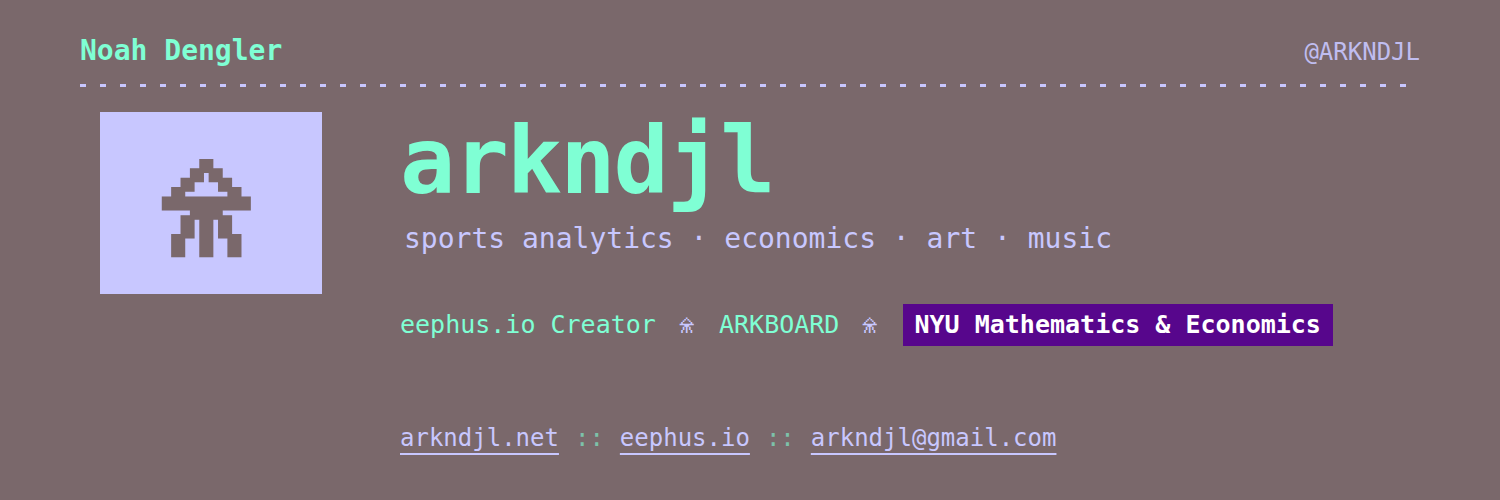
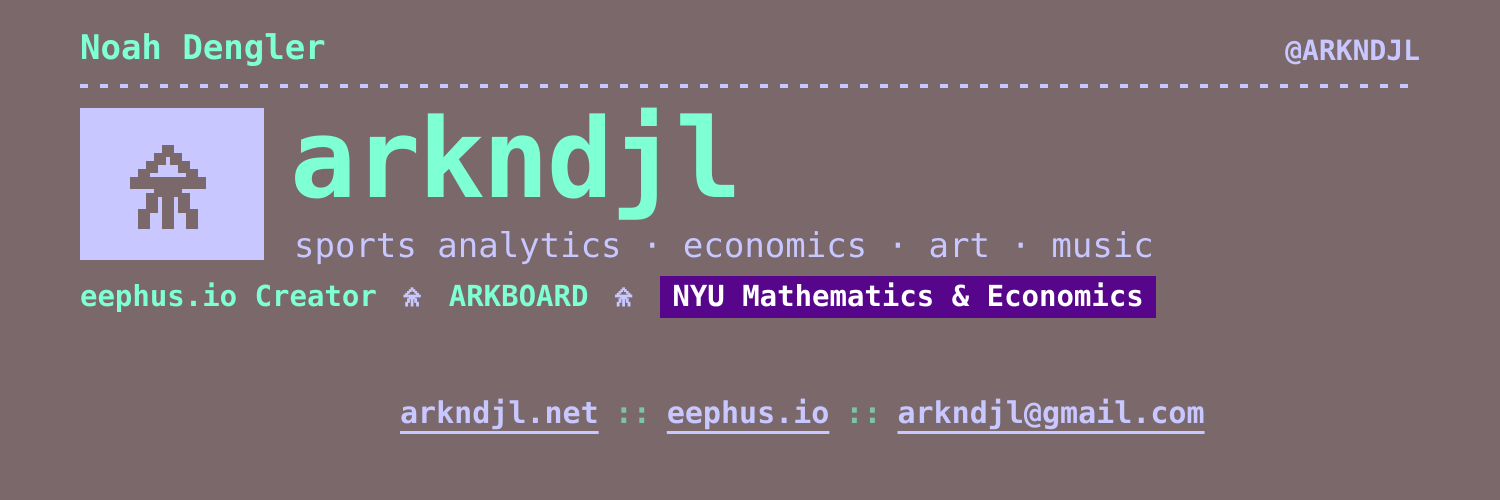
Brand images: sharper renders, X profile picture
- Render large images at 2x device pixels and box-downscale to size, so
  type is cleanly anti-aliased and the pixel glyph keeps hard edges
- Larger, bolder type and a thicker rule on the share card and banners,
  sized for how X and YouTube actually display them
- X header keeps the profile-picture corner clear; YouTube content stays
  inside the 1546x423 safe area
- New brand/avatar.html: X profile picture (1000x1000) in two variants

Claude-Session: https://claude.ai/code/session_01ASh4AMHHUQkRV9emJ7oDVJ

diff --git a/brand/render.js b/brand/render.js
@@ -1,45 +1,75 @@
 // Renders the share image and favicons into ../static, and the X/Twitter and
-// YouTube banners into ./exports, from the HTML templates in this folder. Needs Node + Playwright (npm i -D playwright && npx playwright
-// install chromium) and, for favicon.ico, ImageMagick's `convert`.
+// YouTube banners plus the X profile picture into ./exports, from the HTML
+// templates in this folder. Needs Node + Playwright (npm i -D playwright &&
+// npx playwright install chromium) and ImageMagick's `convert` (used for the
+// 2x -> 1x downscale and favicon.ico).
 //
 //   node brand/render.js
+const fs = require('fs');
 const path = require('path');
 const { execFileSync } = require('child_process');
 const { chromium } = require('playwright');
 
 const here = __dirname;
 const out = path.join(here, '..', 'static');
+const exportsDir = path.join(here, 'exports');
+fs.mkdirSync(exportsDir, { recursive: true });
+
+let hasConvert = true;
+try { execFileSync('convert', ['-version'], { stdio: 'ignore' }); } catch { hasConvert = false; }
 
 (async () => {
   const browser = await chromium.launch();
-  const render = async (file, target, w, h) => {
-    const page = await browser.newPage({ viewport: { width: w, height: h }, deviceScaleFactor: 1 });
+
+  // Large images: render at 2x device pixels, then downscale 50% with a box
+  // filter. Text and the badge get clean anti-aliasing and the pixel glyph
+  // keeps hard edges. Falls back to a 1x render without ImageMagick.
+  const renderSharp = async (file, target, w, h) => {
+    const scale = hasConvert ? 2 : 1;
+    const page = await browser.newPage({ viewport: { width: w, height: h }, deviceScaleFactor: scale });
     await page.goto('file://' + path.join(here, file), { waitUntil: 'networkidle' });
     await page.waitForTimeout(200);
-    await page.screenshot({ path: target });
+    if (scale === 2) {
+      const tmp = target + '.2x.png';
+      await page.screenshot({ path: tmp });
+      execFileSync('convert', [tmp, '-filter', 'Box', '-resize', '50%', '-strip', 'PNG24:' + target]);
+      fs.unlinkSync(tmp);
+    } else {
+      await page.screenshot({ path: target });
+    }
     await page.close();
     console.log('wrote', path.relative(process.cwd(), target), `${w}x${h}`);
   };
-  await render('og-image.html', path.join(out, 'og-image.png'), 1200, 627);
-  // Social banners are not site assets; they land in brand/exports/.
-  const exports = path.join(here, 'exports');
-  require('fs').mkdirSync(exports, { recursive: true });
-  await render('twitter-banner.html', path.join(exports, 'twitter-banner.png'), 1500, 500);
-  await render('youtube-banner.html', path.join(exports, 'youtube-banner.png'), 2560, 1440);
-  await render('icon.html', path.join(out, 'apple-touch-icon.png'), 180, 180);
-  await render('icon.html', path.join(out, 'favicon.png'), 32, 32);
+  // Small icons: render at 1x so the glyph stays on the pixel grid.
+  const renderIcon = async (file, target, size) => {
+    const page = await browser.newPage({ viewport: { width: size, height: size }, deviceScaleFactor: 1 });
+    await page.goto('file://' + path.join(here, file), { waitUntil: 'networkidle' });
+    await page.waitForTimeout(100);
+    await page.screenshot({ path: target });
+    await page.close();
+    console.log('wrote', path.relative(process.cwd(), target), `${size}x${size}`);
+  };
+
+  await renderSharp('og-image.html', path.join(out, 'og-image.png'), 1200, 627);
+  await renderSharp('twitter-banner.html', path.join(exportsDir, 'twitter-banner.png'), 1500, 500);
+  await renderSharp('youtube-banner.html', path.join(exportsDir, 'youtube-banner.png'), 2560, 1440);
+  await renderSharp('avatar.html', path.join(exportsDir, 'twitter-avatar.png'), 1000, 1000);
+  await renderSharp('avatar.html#inverse', path.join(exportsDir, 'twitter-avatar-inverse.png'), 1000, 1000);
+
+  await renderIcon('icon.html', path.join(out, 'apple-touch-icon.png'), 180);
+  await renderIcon('icon.html', path.join(out, 'favicon.png'), 32);
   const icoParts = [];
   for (const s of [16, 32, 48]) {
     const p = path.join(here, `.icon-${s}.png`);
-    await render('icon.html', p, s, s);
+    await renderIcon('icon.html', p, s);
     icoParts.push(p);
   }
   await browser.close();
-  try {
+  if (hasConvert) {
     execFileSync('convert', [...icoParts, path.join(out, 'favicon.ico')]);
     console.log('wrote static/favicon.ico');
-  } catch (e) {
+  } else {
     console.warn('favicon.ico not written (ImageMagick `convert` not available)');
   }
-  for (const p of icoParts) require('fs').unlinkSync(p);
+  for (const p of icoParts) fs.unlinkSync(p);
 })().catch(e => { console.error(e); process.exit(1); });

diff --git a/brand/youtube-banner.html b/brand/youtube-banner.html
@@ -1,27 +1,27 @@
 <!doctype html><html><head><meta charset="utf-8">
-<!-- YouTube channel banner: 2560 x 1440. Everything that matters sits inside
-     YouTube's 1546 x 423 safe area (x 507-2053, y 508-931), which is all that
-     phones show; desktop shows the full-width 423px strip; TVs show it all. -->
+<!-- YouTube channel banner: 2560 x 1440 (rendered at 2x and downscaled). Everything that
+     matters sits inside YouTube's 1546 x 423 safe area (x 507-2053, y 508-931), which is
+     all that phones show; desktop shows the full-width 423px strip; TVs show it all. -->
 <style>
 @font-face { font-family: "Fira Code"; src: url("../static/fonts/FiraCode-Latin.woff2") format("woff2"); font-weight: 300 700; }
-html,body { margin:0; width:2560px; height:1440px; background:#7a686b; color:#7fffd4; font-family:"Fira Code", monospace; overflow:hidden; }
+html,body { margin:0; width:2560px; height:1440px; background:#7a686b; color:#7fffd4; font-family:"Fira Code", monospace; overflow:hidden; -webkit-font-smoothing:antialiased; }
 .wrap { position:relative; width:2560px; height:1440px; }
 .safe { position:absolute; left:507px; top:508px; width:1546px; height:423px; }
-.name { position:absolute; left:40px; top:30px; font-size:30px; font-weight:700; }
-.handle { position:absolute; right:40px; top:34px; font-size:26px; color:#c8c7ff; opacity:.9; }
-.rule { position:absolute; left:0; right:0; top:588px; height:3px; background:repeating-linear-gradient(90deg,#c8c7ff,#c8c7ff 6px,transparent 0,transparent 20px); }
-.logo { position:absolute; left:40px; top:108px; background:#c8c7ff; color:#7a686b; font-size:150px; line-height:1; padding:16px 36px; font-weight:700; }
-.title { position:absolute; left:320px; top:104px; font-size:96px; font-weight:700; letter-spacing:-2px; line-height:1; }
-.sub { position:absolute; left:324px; top:214px; font-size:30px; color:#c8c7ff; }
-.bio { position:absolute; left:320px; top:288px; font-size:27px; line-height:1.5; white-space:nowrap; }
-.nyu { display:inline-block; background:#57068c; color:#fff; font-weight:700; padding:2px 12px; }
-.foot { position:absolute; left:320px; top:348px; display:flex; align-items:center; gap:16px; font-size:26px; color:#c8c7ff; }
-.foot .sep { opacity:.6; color:#7fffd4; }
-.foot a { color:#c8c7ff; text-decoration:underline; text-decoration-thickness:2px; text-underline-offset:7px; }
+.name { position:absolute; left:40px; top:18px; font-size:34px; font-weight:700; }
+.handle { position:absolute; right:40px; top:24px; font-size:28px; font-weight:600; color:#c8c7ff; }
+.rule { position:absolute; left:0; right:0; top:574px; height:4px; background:repeating-linear-gradient(90deg,#c8c7ff,#c8c7ff 8px,transparent 0,transparent 20px); }
+.logo { position:absolute; left:40px; top:90px; background:#c8c7ff; color:#7a686b; font-size:128px; line-height:1; padding:12px 28px; font-weight:700; }
+.title { position:absolute; left:250px; top:86px; font-size:110px; font-weight:700; letter-spacing:-2px; line-height:1; }
+.sub { position:absolute; left:254px; top:208px; font-size:34px; font-weight:500; color:#c8c7ff; }
+.bio { position:absolute; left:40px; top:276px; font-size:30px; font-weight:600; line-height:1.4; white-space:nowrap; }
 .glyph { color:#c8c7ff; margin:0 4px; }
+.nyu { display:inline-block; background:#57068c; color:#fff; font-weight:700; padding:2px 12px; }
+.foot { position:absolute; left:40px; top:342px; display:flex; align-items:center; gap:16px; font-size:30px; font-weight:600; color:#c8c7ff; }
+.foot .sep { opacity:.6; color:#7fffd4; }
+.foot a { color:#c8c7ff; text-decoration:underline; text-decoration-thickness:3px; text-underline-offset:8px; }
 /* decoration outside the safe area (TV / wide desktop only) */
-.mark { position:absolute; font-size:420px; line-height:1; color:#c8c7ff; opacity:.14; font-weight:700; }
-.mark.l { left:60px; top:470px; } .mark.r { right:60px; top:470px; }
+.mark { position:absolute; font-size:400px; line-height:1; color:#c8c7ff; opacity:.14; font-weight:700; }
+.mark.l { left:60px; top:480px; } .mark.r { right:60px; top:480px; }
 </style></head><body><div class="wrap">
 <div class="rule"></div>
 <div class="mark l">🜎</div><div class="mark r">🜎</div>

diff --git a/brand/twitter-banner.html b/brand/twitter-banner.html
@@ -1,22 +1,23 @@
 <!doctype html><html><head><meta charset="utf-8">
-<!-- X / Twitter profile header: 1500 x 500. The profile picture overlaps the
-     bottom-left (~x < 380, y > 325), so nothing important goes there. -->
+<!-- X / Twitter profile header: 1500 x 500 (rendered at 2x and downscaled). X shows it
+     about 600px wide on desktop and re-encodes it as JPEG, so type is large and bold.
+     The profile picture overlaps the bottom-left (~x < 380, y > 325): kept clear. -->
 <style>
 @font-face { font-family: "Fira Code"; src: url("../static/fonts/FiraCode-Latin.woff2") format("woff2"); font-weight: 300 700; }
-html,body { margin:0; width:1500px; height:500px; background:#7a686b; color:#7fffd4; font-family:"Fira Code", monospace; overflow:hidden; }
+html,body { margin:0; width:1500px; height:500px; background:#7a686b; color:#7fffd4; font-family:"Fira Code", monospace; overflow:hidden; -webkit-font-smoothing:antialiased; }
 .wrap { position:relative; width:1500px; height:500px; }
-.name { position:absolute; left:80px; top:34px; font-size:28px; font-weight:700; }
-.handle { position:absolute; right:80px; top:38px; font-size:24px; color:#c8c7ff; opacity:.9; }
-.rule { position:absolute; left:80px; right:80px; top:84px; height:3px; background:repeating-linear-gradient(90deg,#c8c7ff,#c8c7ff 6px,transparent 0,transparent 20px); }
-.logo { position:absolute; left:100px; top:112px; background:#c8c7ff; color:#7a686b; font-size:150px; line-height:1; padding:16px 36px; font-weight:700; }
-.title { position:absolute; left:400px; top:116px; font-size:92px; font-weight:700; letter-spacing:-2px; line-height:1; }
-.sub { position:absolute; left:404px; top:222px; font-size:28px; color:#c8c7ff; }
-.bio { position:absolute; left:400px; top:304px; font-size:25px; line-height:1.5; white-space:nowrap; }
-.nyu { display:inline-block; background:#57068c; color:#fff; font-weight:700; padding:2px 12px; }
-.foot { position:absolute; left:400px; bottom:48px; display:flex; align-items:center; gap:16px; font-size:24px; color:#c8c7ff; }
-.foot .sep { opacity:.6; color:#7fffd4; }
-.foot a { color:#c8c7ff; text-decoration:underline; text-decoration-thickness:2px; text-underline-offset:7px; }
+.name { position:absolute; left:80px; top:28px; font-size:34px; font-weight:700; }
+.handle { position:absolute; right:80px; top:34px; font-size:28px; font-weight:600; color:#c8c7ff; }
+.rule { position:absolute; left:80px; right:80px; top:84px; height:4px; background:repeating-linear-gradient(90deg,#c8c7ff,#c8c7ff 8px,transparent 0,transparent 20px); }
+.logo { position:absolute; left:80px; top:108px; background:#c8c7ff; color:#7a686b; font-size:128px; line-height:1; padding:12px 28px; font-weight:700; }
+.title { position:absolute; left:290px; top:104px; font-size:110px; font-weight:700; letter-spacing:-2px; line-height:1; }
+.sub { position:absolute; left:294px; top:226px; font-size:34px; font-weight:500; color:#c8c7ff; }
+.bio { position:absolute; left:80px; top:276px; font-size:29px; font-weight:600; line-height:1.3; white-space:nowrap; }
 .glyph { color:#c8c7ff; margin:0 4px; }
+.nyu { display:inline-block; background:#57068c; color:#fff; font-weight:700; padding:2px 12px; }
+.foot { position:absolute; left:400px; top:396px; display:flex; align-items:center; gap:16px; font-size:30px; font-weight:600; color:#c8c7ff; }
+.foot .sep { opacity:.6; color:#7fffd4; }
+.foot a { color:#c8c7ff; text-decoration:underline; text-decoration-thickness:3px; text-underline-offset:8px; }
 </style></head><body><div class="wrap">
 <div class="name">Noah Dengler</div>
 <div class="handle">@ARKNDJL</div>

diff --git a/brand/og-image.html b/brand/og-image.html
@@ -1,20 +1,21 @@
 <!doctype html><html><head><meta charset="utf-8">
+<!-- Open Graph / link-preview card: 1200 x 627 (rendered at 2x and downscaled by render.js). -->
 <style>
 @font-face { font-family: "Fira Code"; src: url("../static/fonts/FiraCode-Latin.woff2") format("woff2"); font-weight: 300 700; }
-html,body { margin:0; width:1200px; height:627px; background:#7a686b; color:#7fffd4; font-family:"Fira Code", monospace; overflow:hidden; }
+html,body { margin:0; width:1200px; height:627px; background:#7a686b; color:#7fffd4; font-family:"Fira Code", monospace; overflow:hidden; -webkit-font-smoothing:antialiased; }
 .wrap { position:relative; width:1200px; height:627px; }
-.name { position:absolute; left:80px; top:62px; font-size:32px; font-weight:700; color:#7fffd4; letter-spacing:0.5px; }
-.handle { position:absolute; right:80px; top:66px; font-size:26px; color:#c8c7ff; opacity:.9; }
-.rule { position:absolute; left:80px; right:80px; top:120px; height:3px; background:repeating-linear-gradient(90deg,#c8c7ff,#c8c7ff 6px,transparent 0,transparent 20px); }
-.logo { position:absolute; left:80px; top:170px; background:#c8c7ff; color:#7a686b; font-size:140px; line-height:1; padding:18px 34px; font-weight:700; }
-.title { position:absolute; left:330px; top:178px; font-size:104px; font-weight:700; letter-spacing:-2px; line-height:1; }
-.sub { position:absolute; left:334px; top:300px; font-size:30px; color:#c8c7ff; }
-.bio { position:absolute; left:80px; top:438px; font-size:27px; color:#7fffd4; line-height:1.5; white-space:nowrap; }
-.nyu { display:inline-block; background:#57068c; color:#ffffff; font-weight:700; padding:2px 12px; margin-right:2px; }
-.foot { position:absolute; left:80px; bottom:56px; display:flex; align-items:center; gap:16px; font-size:26px; color:#c8c7ff; }
-.foot .sep { opacity:.6; color:#7fffd4; }
-.foot a { color:#c8c7ff; text-decoration:underline; text-decoration-thickness:2px; text-underline-offset:7px; }
+.name { position:absolute; left:80px; top:58px; font-size:34px; font-weight:700; }
+.handle { position:absolute; right:80px; top:64px; font-size:28px; font-weight:600; color:#c8c7ff; }
+.rule { position:absolute; left:80px; right:80px; top:118px; height:4px; background:repeating-linear-gradient(90deg,#c8c7ff,#c8c7ff 8px,transparent 0,transparent 20px); }
+.logo { position:absolute; left:80px; top:168px; background:#c8c7ff; color:#7a686b; font-size:144px; line-height:1; padding:16px 32px; font-weight:700; }
+.title { position:absolute; left:330px; top:172px; font-size:108px; font-weight:700; letter-spacing:-2px; line-height:1; }
+.sub { position:absolute; left:334px; top:298px; font-size:32px; font-weight:500; color:#c8c7ff; }
+.bio { position:absolute; left:80px; top:430px; font-size:27px; font-weight:600; line-height:1.5; white-space:nowrap; }
 .glyph { color:#c8c7ff; margin:0 4px; }
+.nyu { display:inline-block; background:#57068c; color:#fff; font-weight:700; padding:2px 12px; }
+.foot { position:absolute; left:80px; bottom:52px; display:flex; align-items:center; gap:16px; font-size:28px; font-weight:600; color:#c8c7ff; }
+.foot .sep { opacity:.6; color:#7fffd4; }
+.foot a { color:#c8c7ff; text-decoration:underline; text-decoration-thickness:3px; text-underline-offset:7px; }
 </style></head><body><div class="wrap">
 <div class="name">Noah Dengler</div>
 <div class="handle">@ARKNDJL</div>

diff --git a/brand/avatar.html b/brand/avatar.html
@@ -1,0 +1,12 @@
+<!doctype html><html><head><meta charset="utf-8">
+<!-- X / Twitter profile picture (rendered at 1000 x 1000; X shows it cropped to
+     a circle, so the glyph is sized to stay well inside the circle).
+     Open with #inverse for the mauve-background variant. -->
+<style>
+html,body { margin:0; width:100vw; height:100vh; overflow:hidden; }
+.box { width:100vw; height:100vh; display:flex; align-items:center; justify-content:center; background:#c8c7ff; color:#7a686b; }
+.g { font-size:576px; line-height:1; font-weight:700; transform: translateY(10px); }
+body.inverse .box { background:#7a686b; color:#c8c7ff; }
+</style></head><body><div class="box"><div class="g">🜎</div></div>
+<script>if (location.hash === '#inverse') document.body.classList.add('inverse');</script>
+</body></html>

diff --git a/README.md b/README.md
@@ -50,4 +50,4 @@ npm i -D playwright && npx playwright install chromium   # once
 node brand/render.js
 ```
 
-Edit the text or colors in the templates and re-run. The X/Twitter and YouTube banners (`twitter-banner.html`, `youtube-banner.html`) render into `brand/exports/`.
+Edit the text or colors in the templates and re-run. The X/Twitter header, YouTube banner and X profile picture (`twitter-banner.html`, `youtube-banner.html`, `avatar.html`) render into `brand/exports/`. Large images are rendered at 2x and downscaled for crisp type.
